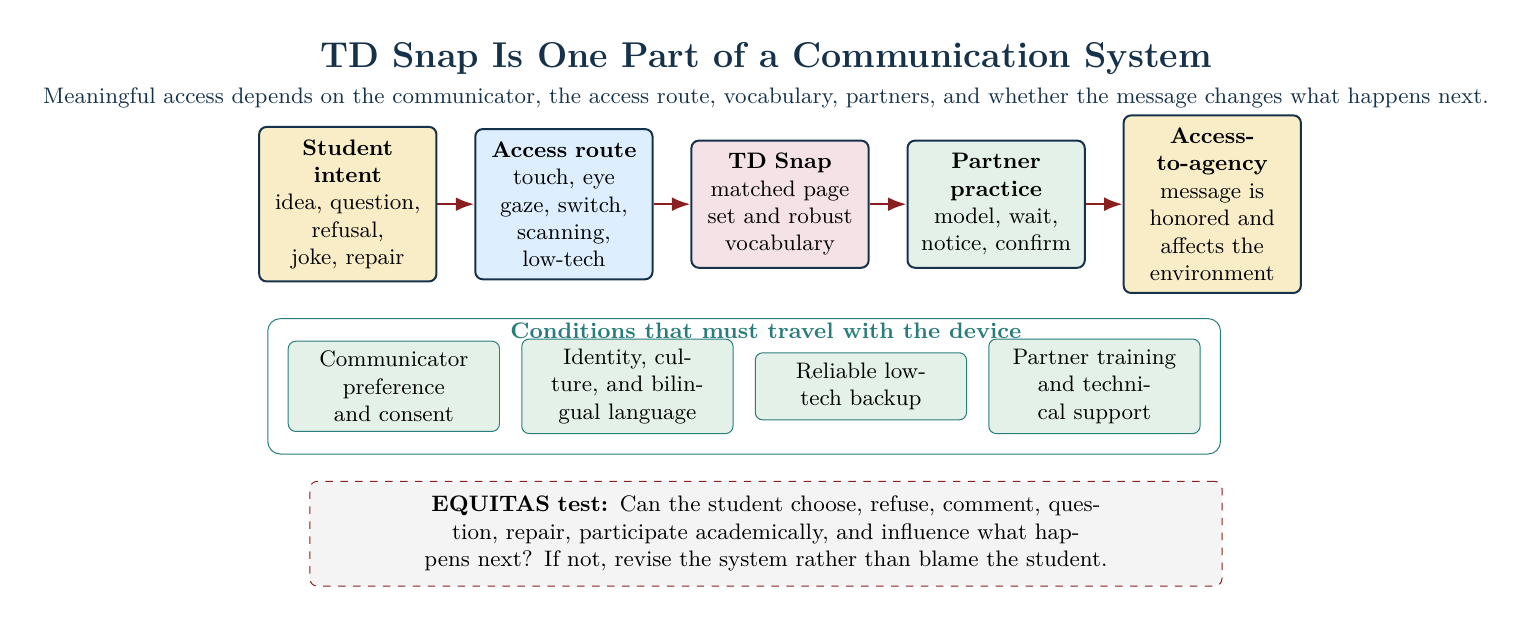
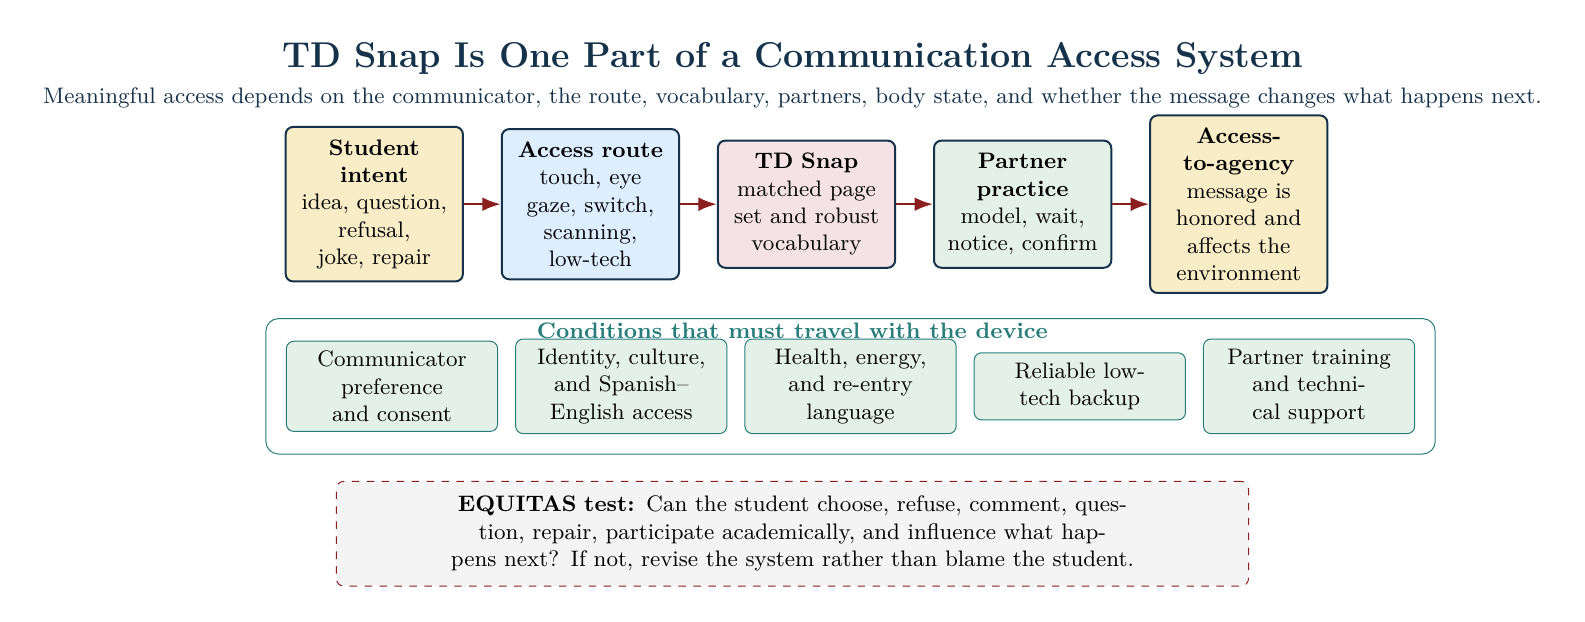
Finalize Module 3 TD Snap AAC review

Changed region(s): [[0.0307, 0.0611, 0.9817, 0.7331], [0.2761, 0.7942, 0.7363, 0.9469]]

diff --git a/modules/Module3/assignments/aac-review/assets/td-snap-access-to-agency.tex b/modules/Module3/assignments/aac-review/assets/td-snap-access-to-agency.tex
@@ -24,9 +24,9 @@
 ]
 
 \node[font=\bfseries\Large, text=DeepNavy] (title) at (6.8,4.6)
-  {TD Snap Is One Part of a Communication System};
+  {TD Snap Is One Part of a Communication Access System};
 \node[font=\small, text=DeepNavy, align=center] at (6.8,4.05)
-  {Meaningful access depends on the communicator, the access route, vocabulary, partners, and whether the message changes what happens next.};
+  {Meaningful access depends on the communicator, the route, vocabulary, partners, body state, and whether the message changes what happens next.};
 
 \node[flowstep, fill=SoftGold] (intent) at (0.9,2.55) {\textbf{Student intent}\\idea, question, refusal, joke, repair};
 \node[flowstep, fill=SoftBlue, right=0.52cm of intent] (access) {\textbf{Access route}\\touch, eye gaze, switch, scanning, low-tech};
@@ -40,17 +40,18 @@
 \draw[flow] (partner) -- (agency);
 
 \node[font=\bfseries\small, text=MidTeal] at (6.8,0.76) {Conditions that must travel with the device};
-\node[support] (preference) at (1.55,-0.02) {Communicator preference and consent};
-\node[support, right=0.30cm of preference] (identity) {Identity, culture, and bilingual language};
-\node[support, right=0.30cm of identity] (backup) {Reliable low-tech backup};
-\node[support, right=0.30cm of backup] (training) {Partner training and technical support};
+\node[support] (preference) at (1.15,-0.02) {Communicator preference and consent};
+\node[support, right=0.24cm of preference] (identity) {Identity, culture, and Spanish--English access};
+\node[support, right=0.24cm of identity] (health) {Health, energy, and re-entry language};
+\node[support, right=0.24cm of health] (backup) {Reliable low-tech backup};
+\node[support, right=0.24cm of backup] (training) {Partner training and technical support};
 
 \node[draw=PrimaryRed, dashed, rounded corners=3pt, fill=SoftGray,
   text width=12.45cm, align=center, inner sep=6pt, at={(6.8,-2.10)},
   font=\small] (audit)
   {\textbf{EQUITAS test:} Can the student choose, refuse, comment, question, repair, participate academically, and influence what happens next? If not, revise the system rather than blame the student.};
 
-\node[draw=MidTeal, rounded corners=5pt, fit=(preference)(identity)(backup)(training),
+\node[draw=MidTeal, rounded corners=5pt, fit=(preference)(identity)(health)(backup)(training),
   inner sep=8pt] {};
 
 \end{tikzpicture}

diff --git a/modules/Module3/assignments/aac-review/draft.md b/modules/Module3/assignments/aac-review/draft.md
@@ -1,45 +1,44 @@
 # AAC Review: TD Snap
 
-## Review Draft - Not Posted
+## Discussion Post Draft - Not Posted
 
-For my AAC review, I selected **TD Snap**, an augmentative and alternative communication application from Tobii Dynavox. The application offers multiple page sets, including Core First, Motor Plan, Express, Text, Scanning, and Aphasia. It can be configured for different access methods, including touch, switch scanning, and eye gaze. This flexibility matters because students with complex communication needs do not share one motor, sensory, visual, language, or literacy profile.
+For my AAC tool review, I selected **TD Snap**, an augmentative and alternative communication app/software system from Tobii Dynavox. TD Snap is designed for people with speech and language disabilities and can be used with different access methods, including touch, eye gaze, and switch access. It also offers multiple page sets, including Core First, Motor Plan, Express, Text, Scanning, Aphasia, and optional page sets such as PODD or Gateway through in-app purchase. That flexibility matters because students with complex communication needs do not share one motor, sensory, visual, language, health, or literacy profile.
 
 ![TD Snap access-to-agency communication-system diagram](assets/td-snap-access-to-agency.png)
 
 *Figure 1. TD Snap is one component of a multimodal communication system. The diagram shows communicator intent moving through an accessible route, matched vocabulary, and responsive partner practice before becoming agency. The EQUITAS test asks whether the student can author varied messages and influence what happens next.*
 
+### Summary of the Tool
+
+TD Snap is not only a speech button app. It is a customizable AAC platform with symbol-supported and text-based page sets, editing tools, search tools, visual supports, QuickFires, training resources, and printable low-tech materials. The Motor Plan page set is especially relevant to this module because it supports word-by-word sentence construction and consistent motor plans. Tobii Dynavox describes Motor Plan as available in English, Spanish, and Spanish/English bilingual options, including Castellano and Latin American Spanish, with 30-, 40-, and 66-position layouts. That makes the tool worth considering for students who need bilingual access, consistent vocabulary locations, and a path from early language toward more complex communication.
+
+I also noticed an important practical issue: the iPad app is free to download, but the App Store currently states that a monthly subscription is required to enable speech after a one-month trial. That means funding, device ownership, school licensing, and family access cannot be treated as small details. A tool that is technically strong can still fail a student if the voice output, page set, backup system, training, or account access does not travel across the student's real day.
+
 ### Benefits
 
-TD Snap's greatest strength is not that the app can speak; it is that the system can be matched to different communicators and purposes. Symbol-supported and text-based page sets allow a team to consider current access while planning for vocabulary and literacy growth. In a classroom, a student could use the system to greet a peer, choose a group role, make a prediction, reject a material, ask for clarification, comment on a model, request sensory support, or say, “I meant something else.” Printable low-tech versions can also help preserve communication when a device is charging, unavailable, difficult to position, or not the student's preferred mode in that moment.
+The strongest benefit of TD Snap is **feature matching**. A team can consider different page sets, grid sizes, access routes, visual supports, and vocabulary organization instead of assuming one AAC layout fits every student. For a neurodivergent CLD student like the fictional Mateo in my Communication Support Plan, TD Snap's bilingual options could protect Spanish-English communication and family vocabulary. For a student like Eli, the value would be the combination of robust vocabulary, low-tech backup, and flexible access methods. For a chronically ill low-speaking student like Luca, the system would need health and body vocabulary such as *tired, pain, private, no voice today, slower, later,* and *ready* so that illness, fatigue, and speech trauma are not misread as refusal or noncompliance.
 
-This matches Mirenda's (2015) description of AAC as a continuously updated multimodal system rather than a single device. It also addresses the implementation problem identified by Norrie, Waller, and Hannah (2021): technology becomes meaningful only when training, technical support, partners, and daily routines make it usable.
+Another benefit is that TD Snap can support more than requesting. It can help students greet, comment, ask questions, reject a material, repair a misunderstanding, choose a peer role, participate academically, joke, and influence what happens next. This connects directly to ASHA's position that there are no prerequisite skills for beginning AAC and to our Module 3 readings that frame AAC as a multimodal system supported by partners, routines, and implementation conditions.
 
 ### Challenges
 
-TD Snap still requires careful feature matching, customization, funding or device access, partner training, and time. Multiple page sets are an advantage only if the team selects and organizes them with the communicator rather than continually changing the layout around the student. Adults may also program mostly requests or behavior-management phrases while leaving out questions, comments, humor, academic vocabulary, refusal, identity, and repair. A powerful application can therefore reproduce a narrow adult agenda.
+The biggest challenge is that TD Snap is only as inclusive as the implementation around it. A robust app can become narrow if adults mostly program compliance phrases, remove the device during hands-on work, change layouts without student input, or treat speech output as the only valid message. The DoDEA parent-training guidance reminded me that partners need to learn the tool, model while talking, keep the device available all day, and wait for the communicator. Without that partner behavior, the technology may be present but communication access is still missing.
 
-There are practical risks too. A device can be left on a shelf, removed during transitions, used only with one specialist, or treated as inconvenient during hands-on activities. Norrie et al. (2021) show that these are implementation failures, not evidence that a student is incapable of AAC. Communication partners must keep the system available, model without demanding imitation, wait, confirm meaning, and honor messages even when a refusal or correction changes the adult's plan.
-
-### Personalized Classroom Use
-
-I would use TD Snap during an evidence-to-action science routine modeled on my EDU486 camp work. Youth at camp could contribute through tool use, drawing, labels, arrows, photographs, speech, partnering, observation, pausing, and returning. For a student using TD Snap, I would prepare both core vocabulary and activity-specific words such as *observe, compare, evidence, change, agree, different, smell, texture,* and *show me*. The student would be able to choose a role, comment on evidence, reject a sensory material, request another access route, or help teach the final model. A printed board would remain available beside the device.
+There are also practical barriers: subscription cost, iPad/device access, app size/storage, internet or account management, staff training, and time for personalization. Optional page sets can be useful, but they can also create confusion or extra cost if the team keeps switching systems before learning what the student already understands. TD Snap should therefore be selected through student, family, SLP, teacher, and team input rather than because it looks polished.
 
 ### Overall Review
 
-TD Snap is a strong option when its page set and access method fit the communicator and when the team treats it as one part of a multimodal system. Its flexibility is a major benefit; shallow or inconsistent implementation is the central challenge. My final test comes from EQUITAS, the equity-centered heart of my Puzzle Plan: after the support is introduced, can the student author more kinds of messages and exercise more influence over learning, relationships, and the environment? If the answer is yes, the tool is increasing access-to-agency. If not, the team must revise the system rather than blame the student.
+My overall review is positive, with conditions. TD Snap appears to be a strong AAC option when the page set, access method, vocabulary, language options, backup system, and partner supports are matched to the communicator. I would not treat it as a magic fix or as proof that the student is now responsible for all communication breakdowns. Through my Puzzle Plan, I would ask how the tool connects the student's lived experience, language, body state, environment, family knowledge, and instructional goals. Through EQUITAS, I would ask the fairness question: after TD Snap is introduced, does the student have more power to choose, refuse, comment, question, repair, participate, protect boundaries, and affect the environment? If yes, the tool is supporting access-to-agency. If not, the team must revise the system rather than blame the student.
 
-## Sources
+### Sources Used
 
-- [Tobii Dynavox: TD Snap](https://us.tobiidynavox.com/products/td-snap)
-- [ASHA AAC overview](../reading-summaries/themed_overview/augmentative-and-alternative-communication-aac-themed-overview.md)
-- [Mirenda (2015)](../reading-summaries/themed_overview/developing-acquiring-communication-aids-themed-overview.md)
-- [Norrie et al. (2021)](../reading-summaries/themed_overview/norrie-et-al-2021-context-for-aac-themed-overview.md)
-
-## Visual Files
-
-- [Blackboard-ready PNG](assets/td-snap-access-to-agency.png)
-- [Editable LaTeX/TikZ source](assets/td-snap-access-to-agency.tex)
+- [Tobii Dynavox: TD Snap overview](https://www.tobiidynavox.com/pages/td-snap)
+- [Tobii Dynavox: TD Snap Motor Plan](https://us.tobiidynavox.com/pages/td-snap-motor-plan)
+- [Apple App Store: TD Snap](https://apps.apple.com/us/app/td-snap/id1072799231)
+- [DoDEA AAC Toolkit](https://sites.google.com/student.dodea.edu/dodea-aac-toolkit/)
+- [DoDEA AAC Toolkit: Parent Training](https://sites.google.com/student.dodea.edu/dodea-aac-toolkit/parent-training)
+- [ASHA: Augmentative and Alternative Communication](https://www.asha.org/njc/aac/)
 
 ## Classmate Reply - Complete Only After Posts Are Visible
 
-I appreciated your review of **[tool]**, especially your point about **[specific detail from the classmate's post]**. One connection I noticed with TD Snap is **[evidence-based comparison]**. How does the tool support **[access method, vocabulary growth, bilingual use, repair, or use across routines]**? That question matters to me because implementation and partner response can expand or restrict what even a strong AAC tool makes possible.
+I appreciated your review of **[tool]**, especially your point about **[specific detail from the classmate's post]**. One connection I noticed with TD Snap is **[evidence-based comparison]**. I am wondering how your tool handles **[access method, vocabulary growth, bilingual use, repair language, low-tech backup, or use across routines]**. That question matters to me because a strong AAC tool still depends on partner training, student consent, and whether the student's message actually changes what happens next.

diff --git a/modules/Module3/assignments/README.md b/modules/Module3/assignments/README.md
@@ -14,8 +14,8 @@ What does meaningful communication look like for students with complex needs?
 
 - [Complete Module 3 review guide](REVIEW-GUIDE.md)
 - [Module 3 task tracker](module3-task-tracker.md)
-- [References and source trail](references.md)
-- [Local readings index](readings-index.md)
+- [References and source trail](reading-summaries/references.md)
+- [Local readings index](reading-summaries/readings-index.md)
 - [Comprehensive themed summary](reading-summaries/comprehensive_themed_overview.md)
 - [Every source-specific themed summary](reading-summaries/README.md)
 - [Media synthesis and review guide](reading-summaries/media-synthesis.md)
@@ -26,8 +26,8 @@ What does meaningful communication look like for students with complex needs?
 | Blackboard Item | Due | Review Material |
 | --- | --- | --- |
 | What Do You Know? | No date shown in local capture | [Prompt and submission-ready personalized draft](discussions/README.md#what-do-you-know) |
-| AAC Review | August 10, 11:59 PM EDT | [TD Snap post, sources, original visual, and reply structure](aac-review/README.md) |
-| [Communication Support Plan](https://learn.rochester.edu/ultra/courses/_113760_1/outline/assessment/_9647067_1/overview?courseId=_113760_1) | Confirm in Blackboard; Module 3 ends August 10 | [Markdown and five-page LaTeX review package](communication-support-plan/README.md) |
+| AAC Review | August 10, 11:59 PM EDT | [TD Snap post, current source links, updated visual, and reply structure](aac-review/README.md) |
+| [Communication Support Plan](https://learn.rochester.edu/ultra/courses/_113760_1/outline/assessment/_9647067_1/overview?courseId=_113760_1) | Confirm in Blackboard; Module 3 ends August 10 | [Markdown and ten-page LaTeX review package](communication-support-plan/README.md) |
 | Journal #3 | August 10, 11:59 PM EDT | [Markdown and four-page LaTeX review package](module3-journal/README.md) |
 | Takeaways | No date shown in local capture | [Prompt and personalized draft](discussions/README.md#takeaways) |
 

diff --git a/modules/Module3/assignments/module3-task-tracker.md b/modules/Module3/assignments/module3-task-tracker.md
@@ -13,8 +13,8 @@ The local Blackboard captures show **August 10, 2026, 11:59 PM EDT** for AAC Rev
 | READ 2: Downing et al. (2015), Ch. 4 | Summary prepared | [Rich communicative environment](reading-summaries/themed_overview/general-education-rich-communicative-environment-themed-overview.md) | Read/confirm source engagement |
 | READ 3: Peckham-Hardin (2015), Ch. 9 | Summary prepared | [Communication and challenging behavior](reading-summaries/themed_overview/communication-and-challenging-behavior-themed-overview.md) | Read/confirm source engagement |
 | LISTEN/WATCH one media source | Guide prepared; completion not claimed | [Media synthesis](reading-summaries/media-synthesis.md) | Complete/confirm source and add one concrete observation |
-| AAC Review | Review-ready post and original PNG visual prepared | [TD Snap review package](aac-review/README.md) | Review, post, then reply to a real classmate post |
-| Communication Support Plan | Submission-ready six-page PDF and editable sources prepared; not submitted | [Support plan package](communication-support-plan/README.md) | Confirm separate due date, review final PDF, and submit manually |
+| AAC Review | Review-ready TD Snap post, updated visual, current source links, and classmate-reply template prepared | [TD Snap review package](aac-review/README.md) | Review, attach visual, post manually, then reply to a real classmate post |
+| Communication Support Plan | Submission-ready ten-page PDF and editable sources prepared; not submitted | [Support plan package](communication-support-plan/README.md) | Confirm separate due date, review final PDF, and submit manually |
 | Journal #3 | Markdown and four-page LaTeX review package prepared | [Journal package](module3-journal/README.md) | Confirm prompt, add media observation, submit manually |
 | Takeaways | Personalized review draft prepared | [Prompt and response](discussions/README.md#takeaways) | Confirm READ/MEDIA choices and post manually |
 

diff --git a/modules/Module3/assignments/aac-review/README.md b/modules/Module3/assignments/aac-review/README.md
@@ -15,10 +15,19 @@ Research one AAC device or tool, summarize it, review its communication benefits
 - [Personalized TD Snap review draft](draft.md)
 - [Blackboard-ready access-to-agency visual](assets/td-snap-access-to-agency.png)
 - [Editable visual source](assets/td-snap-access-to-agency.tex)
-- [Module 3 reference list](../references.md)
+- [Module 3 reference list](../reading-summaries/references.md)
 - [AAC system overview](../reading-summaries/themed_overview/augmentative-and-alternative-communication-aac-themed-overview.md)
 - [Norrie et al. implementation study](../reading-summaries/themed_overview/norrie-et-al-2021-context-for-aac-themed-overview.md)
 - [Mirenda on multimodal AAC systems](../reading-summaries/themed_overview/developing-acquiring-communication-aids-themed-overview.md)
+
+## Current Web Sources Checked
+
+- [Tobii Dynavox TD Snap overview](https://www.tobiidynavox.com/pages/td-snap)
+- [Tobii Dynavox TD Snap Motor Plan](https://us.tobiidynavox.com/pages/td-snap-motor-plan)
+- [Apple App Store TD Snap listing](https://apps.apple.com/us/app/td-snap/id1072799231)
+- [DoDEA AAC Toolkit](https://sites.google.com/student.dodea.edu/dodea-aac-toolkit/)
+- [DoDEA AAC Toolkit parent training](https://sites.google.com/student.dodea.edu/dodea-aac-toolkit/parent-training)
+- [ASHA AAC overview](https://www.asha.org/njc/aac/)
 
 ## Human Review
 
